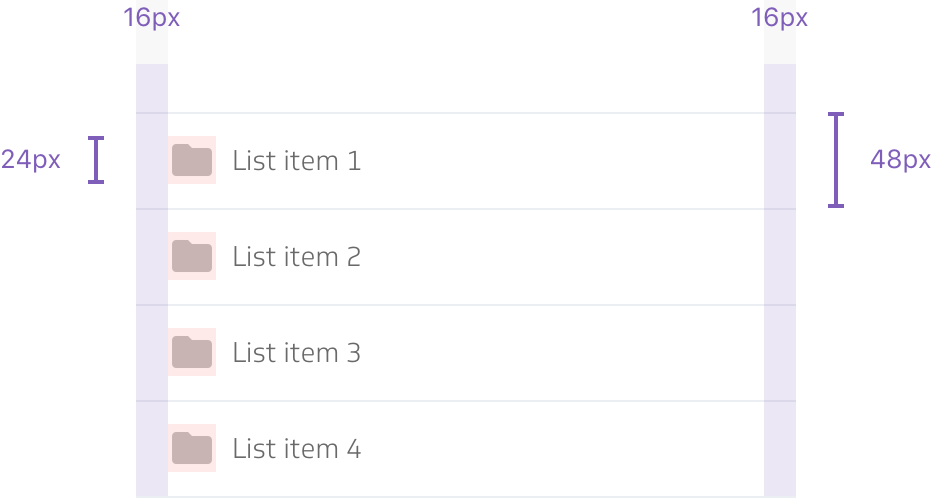
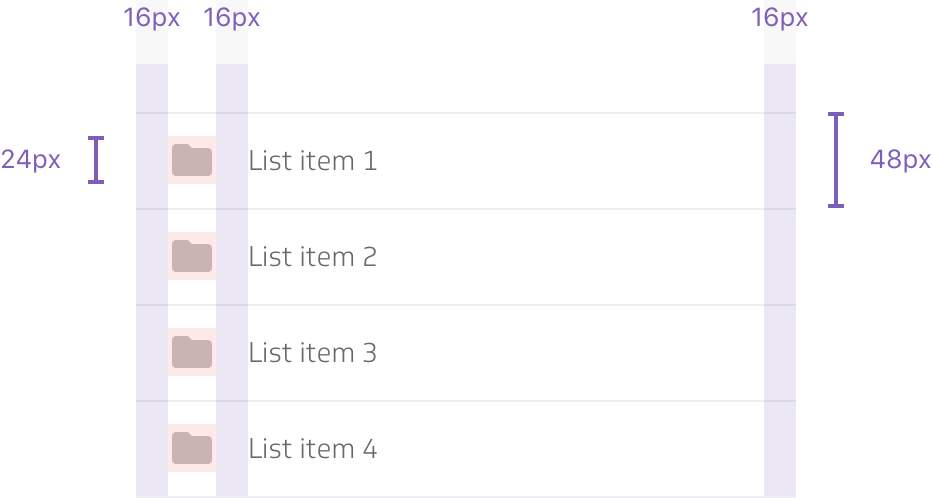
Fix Bug : List --> please update to new Design Specs image

diff --git a/src/assets/documents/components/list.html b/src/assets/documents/components/list.html
@@ -110,7 +110,7 @@
       <span header-link="design_specs"></span>Design specs</span>
   </div>
 
-  <div class="docs-usage-spec docs-usage-center" style="height:280px">
+  <div class="docs-usage-spec docs-usage-center" style="height:368px">
     <img src="assets/img/doc/list-spec.png" alt="">
   </div>
 
